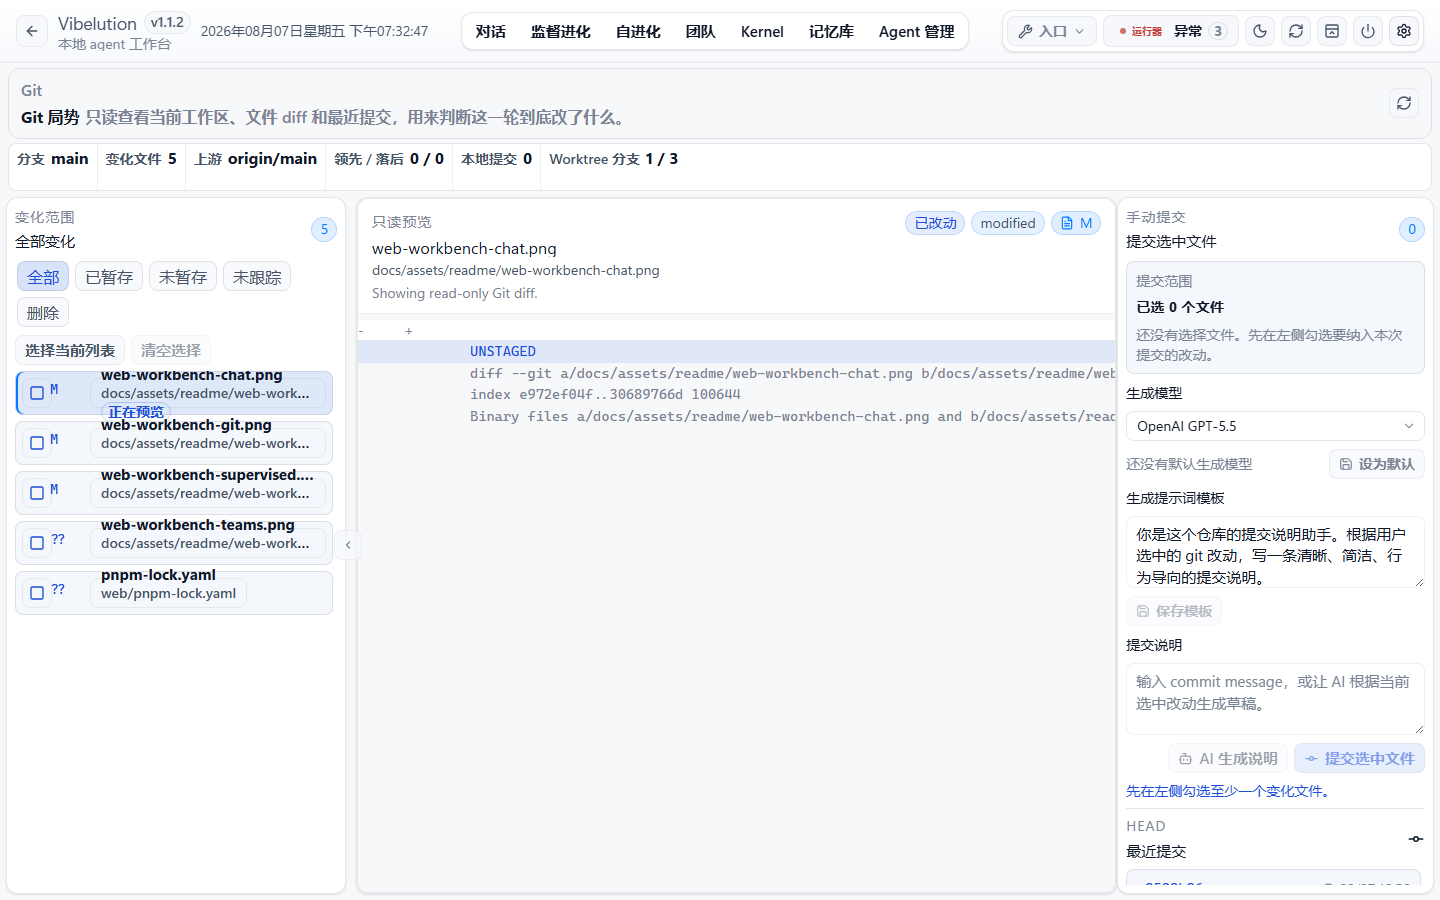
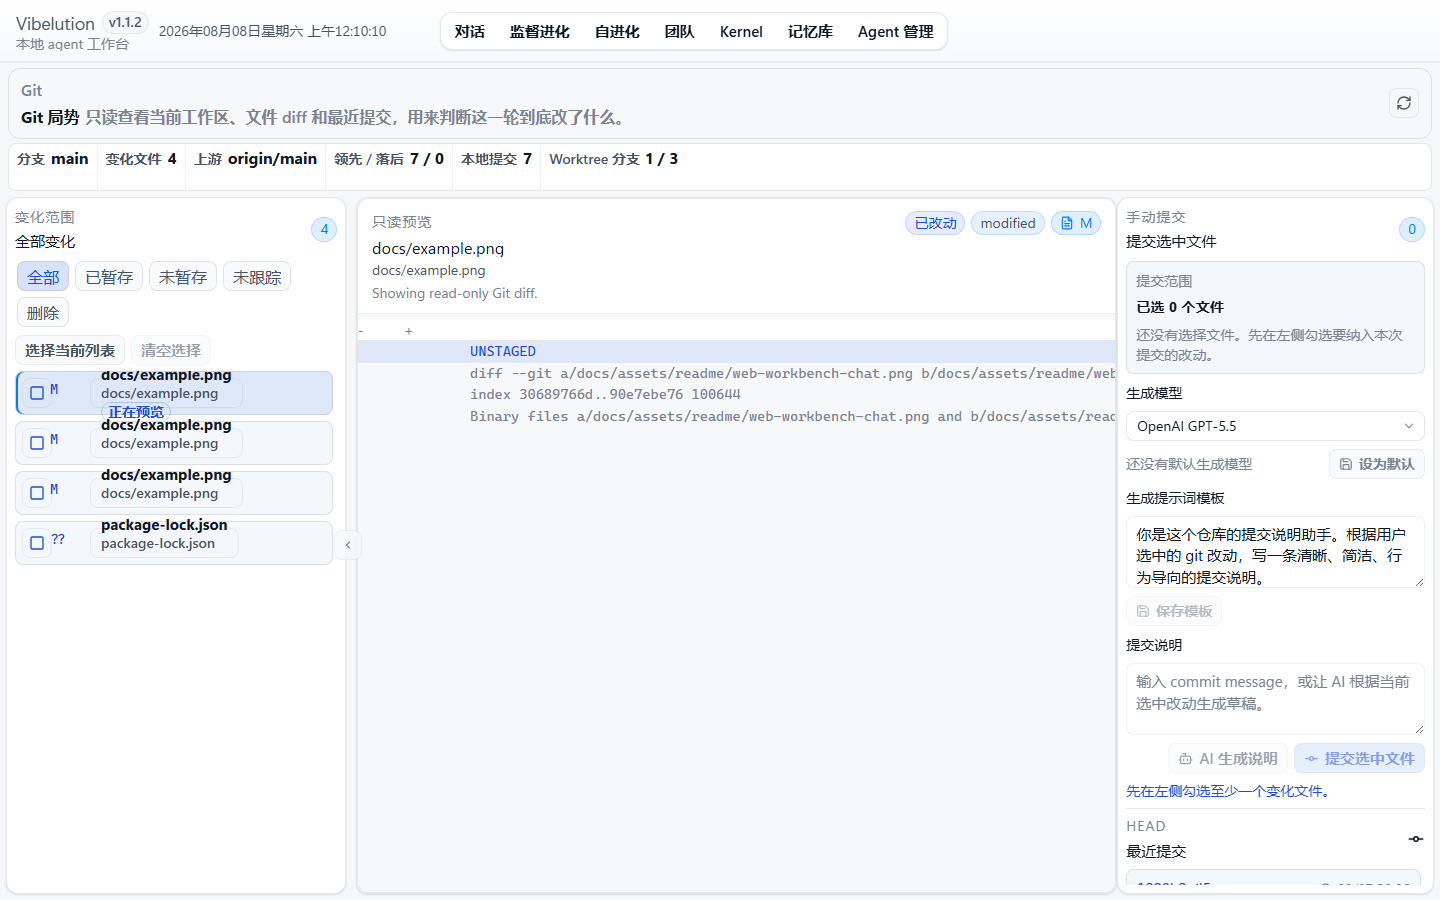
docs(readme): replace screenshots with privacy-safe product views
Use desensitized Git/supervised captures, static Agent governance preview, and public teams workflow canvas without private session transcripts.

diff --git a/README.md b/README.md
@@ -14,7 +14,7 @@
 
 ## 界面预览
 
-![对话工作台](docs/assets/readme/web-workbench-chat.png)
+![Agent 管理](docs/assets/readme/web-workbench-chat.png)
 
 ![团队科研流程](docs/assets/readme/web-workbench-teams.png)
 
